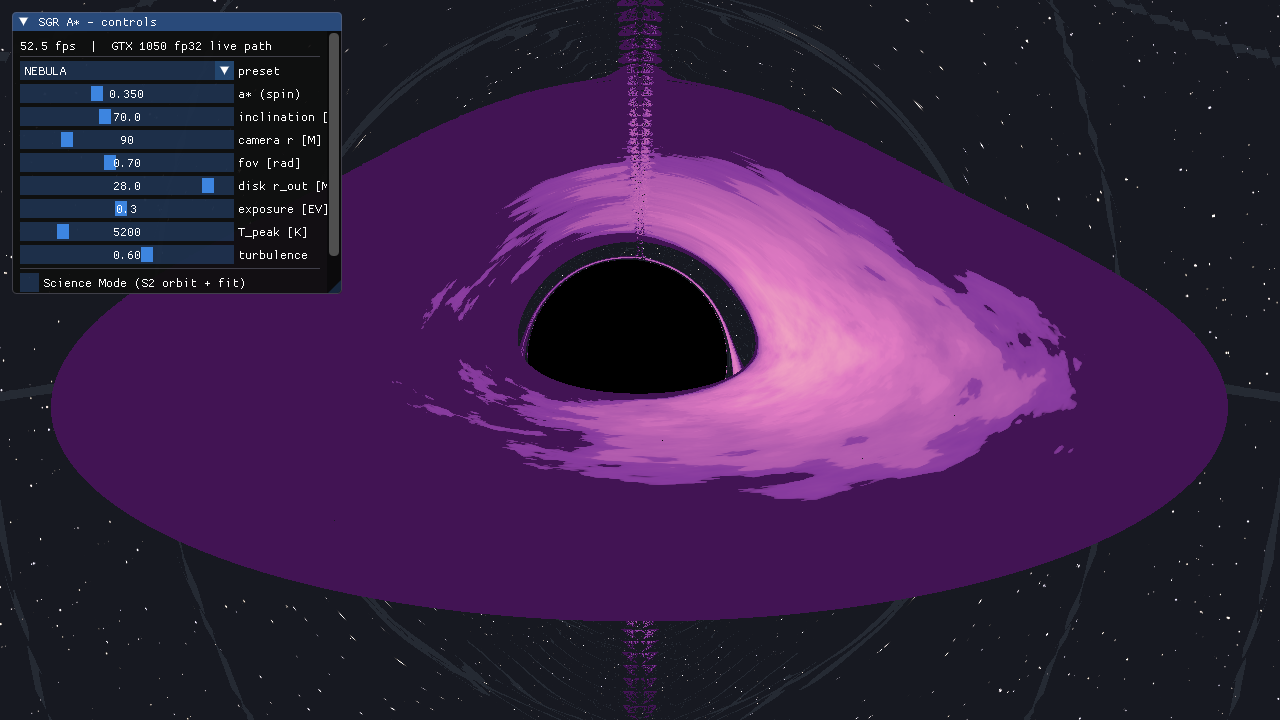
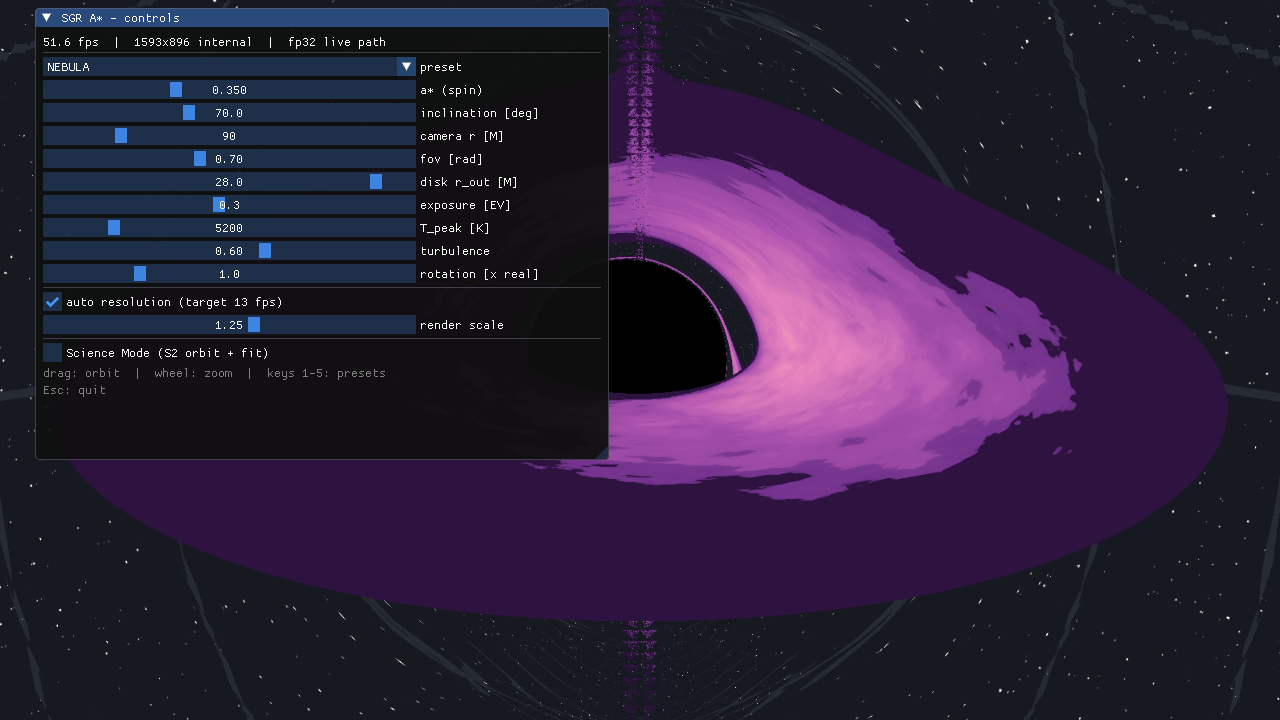
feat: full-disk colour grading, physical rotation control, auto resolution
Fixes the three fullscreen complaints (flat brick-red outer disk, no
visible rotation, 8.8 fps):

- gen_luts.py: artistic ramps re-stopped so colour progresses over the
  whole u range - with the 24-stop log window the outer disk sits at
  u~0.1-0.4 where the old ramps were one flat colour, quantizing the
  entire outer disk and hiding the turbulence filaments
- rotation [x real] slider (default 1.0 = physical Sgr A* wall-clock,
  GM/c^3 = 21.17 s; ISCO orbit ~8.5 min): filament advection now scales
  from frozen through real time to 1000x cinematic; --rot CLI flag
- auto dynamic resolution targeting 13 fps (user-chosen): sqrt-law
  controller on the 2 s fps samples, 70% damping, bounded step,
  rebuild-stall sample rejection; manual render-scale slider 0.25x-2x
  (>1 = supersampled AA via the LINEAR downsample blit); internal
  resolution shown in the HUD readout
- Verified: 1080p converges to ~13 fps at scale ~1.27; rotation A/B at
  300x shows sheared trailing spirals while 1x is static; 32/32 tests
  green; zero validation errors in all runs

diff --git a/engine/src/app.cpp b/engine/src/app.cpp
@@ -31,6 +31,7 @@ App::App(const AppOptions& opts) : opts_(opts) {
         *ctx_, bindless_->layout(),
         std::string(SGR_SHADER_DIR) + "/" + opts.shader + ".comp.glsl",
         sizeof(PushConstants));
+    live_.render_scale = std::clamp(opts_.render_scale, 0.25f, 2.0f);
     create_render_target();
 
     // live parameters: preset defaults → per-shader defaults → CLI overrides
@@ -52,6 +53,7 @@ App::App(const AppOptions& opts) : opts_(opts) {
     if (opts_.disk_r_out > 0.0f) live_.disk_r_out = opts_.disk_r_out;
     if (opts_.exposure_ev > -900.0f) live_.exposure_ev = opts_.exposure_ev;
     if (opts_.t_peak_k > 0.0f) live_.t_peak_k = opts_.t_peak_k;
+    if (opts_.rot_speed >= 0.0f) live_.rot_speed = opts_.rot_speed;
 
     live_.science_mode = opts_.science;
 
@@ -256,7 +258,9 @@ void App::create_render_target() {
         target_w_ = static_cast<uint32_t>(opts_.width);
         target_h_ = static_cast<uint32_t>(opts_.height);
     } else {
-        const float s = std::clamp(opts_.render_scale, 0.2f, 1.0f);
+        // live_.render_scale is runtime-tunable (auto-res / HUD slider);
+        // > 1 renders oversized and the LINEAR blit downsamples (cheap SSAA).
+        const float s = std::clamp(live_.render_scale, 0.25f, 2.0f);
         target_w_ = std::max(16u, static_cast<uint32_t>(
                                       ctx_->swapchain_extent().width * s));
         target_h_ = std::max(16u, static_cast<uint32_t>(
@@ -516,6 +520,9 @@ PushConstants App::make_push_constants(float t) const {
     pc.t_peak_k = live_.t_peak_k;
     pc.turb = live_.turb;
     pc.cam_phi = live_.cam_phi;
+    // 1.0 on the slider = real Sgr A* wall-clock: one geometric time unit
+    // (GM/c³) is 21.17 s for M = 4.297e6 Msun.
+    pc.time_scale = live_.rot_speed / 21.17f;
 
     // Page-Thorne normalisation, cached against the parameters it depends on.
     static thread_local double cached_a = -10.0, cached_rout = -1.0,
@@ -670,6 +677,14 @@ int App::run() {
         }
         if (hud_) hud_->new_frame(fps_now);
 
+        if (target_rebuild_) {
+            target_rebuild_ = false;
+            live_.render_scale = std::clamp(live_.render_scale, 0.25f, 2.0f);
+            ctx_->wait_idle();
+            destroy_render_target();
+            create_render_target();
+        }
+
         auto& f = ctx_->frame(frame_slot);
         vkWaitForFences(ctx_->device(), 1, &f.in_flight, VK_TRUE, UINT64_MAX);
 
@@ -735,9 +750,40 @@ int App::run() {
         if (std::chrono::duration<double>(now - fps_t0).count() > 2.0) {
             fps_now = fps_frames /
                       std::chrono::duration<double>(now - fps_t0).count();
-            std::printf("[app] %.1f fps\n", fps_now);
+            std::printf("[app] %.1f fps (scale %.2f)\n", fps_now,
+                        live_.render_scale);
             fps_t0 = now;
             fps_frames = 0;
+
+            // Auto resolution: hold ~13 fps (user-chosen) by scaling the
+            // internal render target. Cost per frame ~ pixels ~ scale², so
+            // sqrt(fps/target) is the equalising step; blend 70% toward it
+            // and ignore <5% moves to avoid oscillation. Menu mode is a
+            // cheap blit — never scale on its numbers.
+            if (live_.auto_res && mode_ == UiMode::Simulation &&
+                fps_now > 0.0) {
+                if (autores_skip_) {
+                    // this sample includes the rebuild stall — not a real
+                    // performance measurement
+                    autores_skip_ = false;
+                } else {
+                    const float target = 13.0f;
+                    float want =
+                        live_.render_scale *
+                        std::clamp(std::sqrt(static_cast<float>(fps_now) /
+                                             target),
+                                   0.74f, 1.35f); // bounded step per sample
+                    want = std::clamp(want, 0.25f, 2.0f);
+                    const float next = live_.render_scale +
+                                       0.7f * (want - live_.render_scale);
+                    if (std::fabs(next - live_.render_scale) >
+                        0.05f * live_.render_scale) {
+                        live_.render_scale = next;
+                        request_target_rebuild();
+                        autores_skip_ = true;
+                    }
+                }
+            }
         }
     }
 

diff --git a/engine/src/app.hpp b/engine/src/app.hpp
@@ -28,6 +28,7 @@ struct AppOptions {
     std::string panel;                // open this menu panel at boot
                                       // (about|nohair|scope|gallery|settings)
     bool no_mouse = false;            // ignore mouse orbit/zoom (automation)
+    float rot_speed = -1.0f;          // disk rotation ×real (-1: default 1.0)
     // Physics parameters forwarded to the shader (Phase 7+). Negative /
     // sentinel values mean "not set on the CLI": the preset (live mode) or
     // the per-shader defaults fill them in.
@@ -60,6 +61,7 @@ struct PushConstants {
     float t_peak_k;   // peak disk temperature [K]
     float turb;       // artistic turbulence amount 0..1 (0 = pure analytic)
     float cam_phi;    // camera azimuth [rad] (axisymmetric: rotates the disk)
+    float time_scale; // filament advection: Ω [1/M] per wall-clock second
 };
 static_assert(sizeof(PushConstants) <= 128);
 
@@ -80,6 +82,12 @@ public:
     void enter_simulation(bool science, bool scope = false);
     void return_to_menu() { mode_ = UiMode::Menu; }
     void request_quit();
+
+    // Recreate the internal render target next frame (render_scale changed
+    // via the HUD slider or the auto-resolution controller).
+    void request_target_rebuild() { target_rebuild_ = true; }
+    uint32_t target_width() const { return target_w_; }
+    uint32_t target_height() const { return target_h_; }
 
     // Generic sampled/blit texture loaded from a PNG (LUTs, hero plate,
     // gallery thumbnails).
@@ -128,6 +136,8 @@ private:
     bool esc_prev_ = false;
     bool dragging_ = false;
     double drag_x_ = 0.0, drag_y_ = 0.0;
+    bool target_rebuild_ = false;
+    bool autores_skip_ = false; // discard the fps sample after a rebuild
 
 public:
     // Live-tunable state (edited by the HUD; consumed by make_push_constants).
@@ -135,6 +145,12 @@ public:
         float a_star, incl_deg, fov, r_cam, disk_r_out, exposure_ev, t_peak_k;
         float turb = 0.0f;    // artistic turbulence layer (post-validation)
         float cam_phi = 0.0f; // orbit azimuth [rad], mouse-driven
+        // Disk rotation in multiples of REAL Sgr A* wall-clock time
+        // (1.0 = physical: GM/c³ = 21.17 s per geometric time unit, one
+        // ISCO orbit ≈ 8.5 min — crank it up to actually see the swirl).
+        float rot_speed = 1.0f;
+        float render_scale = 1.0f; // internal render resolution multiplier
+        bool auto_res = true;      // hold ~13 fps by adjusting render_scale
         uint32_t lut_slot = 0;
         int preset = 0;
         bool science_mode = false;

diff --git a/scripts/gen_luts.py b/scripts/gen_luts.py
@@ -80,24 +80,33 @@ def main() -> None:
     save_lut("disk_colormap", bb / bb.max())
 
     # §9 presets (display ramps in linear RGB; u = normalised intensity).
+    # Densely stopped so colour keeps moving over the WHOLE ramp: with the
+    # live renderer's 24-stop log window the outer disk sits at u ≈ 0.1–0.4,
+    # and a ramp that is flat there quantizes the whole outer disk to one
+    # colour (and hides the turbulence filaments).
     save_lut("firestorm", ramp([
-        (0.0, (0.02, 0.00, 0.00)), (0.25, (0.35, 0.02, 0.01)),
-        (0.55, (0.85, 0.20, 0.02)), (0.8, (1.0, 0.55, 0.08)),
-        (1.0, (1.0, 0.93, 0.72)),
+        (0.00, (0.010, 0.001, 0.001)), (0.10, (0.060, 0.005, 0.003)),
+        (0.30, (0.28, 0.03, 0.01)), (0.50, (0.62, 0.10, 0.02)),
+        (0.68, (0.92, 0.30, 0.03)), (0.85, (1.0, 0.60, 0.10)),
+        (1.00, (1.0, 0.93, 0.72)),
     ]))
     save_lut("gargantua", ramp([
-        (0.0, (0.01, 0.02, 0.05)), (0.3, (0.25, 0.35, 0.55)),
-        (0.6, (0.85, 0.75, 0.55)), (0.85, (1.0, 0.92, 0.70)),
-        (1.0, (1.0, 1.0, 1.0)),
+        (0.00, (0.008, 0.012, 0.030)), (0.12, (0.04, 0.07, 0.14)),
+        (0.30, (0.14, 0.22, 0.38)), (0.50, (0.38, 0.45, 0.60)),
+        (0.68, (0.75, 0.70, 0.60)), (0.85, (0.98, 0.90, 0.70)),
+        (1.00, (1.0, 1.0, 1.0)),
     ]))
     save_lut("arctic", ramp([
-        (0.0, (0.00, 0.02, 0.04)), (0.35, (0.10, 0.35, 0.50)),
-        (0.7, (0.55, 0.85, 0.95)), (1.0, (0.95, 1.0, 1.0)),
+        (0.00, (0.002, 0.010, 0.020)), (0.12, (0.02, 0.07, 0.12)),
+        (0.30, (0.06, 0.22, 0.33)), (0.50, (0.16, 0.45, 0.60)),
+        (0.70, (0.45, 0.78, 0.90)), (0.88, (0.80, 0.97, 1.00)),
+        (1.00, (0.97, 1.0, 1.0)),
     ]))
     save_lut("nebula", ramp([
-        (0.0, (0.03, 0.00, 0.06)), (0.3, (0.25, 0.04, 0.35)),
-        (0.6, (0.75, 0.20, 0.55)), (0.85, (1.0, 0.55, 0.55)),
-        (1.0, (1.0, 0.85, 0.65)),
+        (0.00, (0.012, 0.001, 0.025)), (0.12, (0.06, 0.01, 0.11)),
+        (0.30, (0.18, 0.03, 0.28)), (0.50, (0.45, 0.09, 0.45)),
+        (0.68, (0.78, 0.22, 0.52)), (0.85, (1.0, 0.52, 0.52)),
+        (1.00, (1.0, 0.86, 0.66)),
     ]))
 
 

diff --git a/engine/src/ui/SimHUD.cpp b/engine/src/ui/SimHUD.cpp
@@ -238,7 +238,8 @@ void SimHUD::draw_controls(double fps) {
     ImGui::SetNextWindowPos({12, 12}, ImGuiCond_FirstUseEver);
     ImGui::SetNextWindowSize({330, 0}, ImGuiCond_FirstUseEver);
     ImGui::Begin("SGR A* - controls");
-    ImGui::Text("%.1f fps  |  GTX 1050 fp32 live path", fps);
+    ImGui::Text("%.1f fps  |  %ux%u internal  |  fp32 live path", fps,
+                app_->target_width(), app_->target_height());
     ImGui::Separator();
 
     int preset = lp.preset;
@@ -259,6 +260,25 @@ void SimHUD::draw_controls(double fps) {
         ImGui::SetTooltip("Artistic filament layer sheared by the real\n"
                           "Keplerian rotation. 0 = pure Page-Thorne\n"
                           "(the physics is identical either way).");
+    ImGui::SliderFloat("rotation [x real]", &lp.rot_speed, 0.0f, 1000.0f,
+                       "%.1f", ImGuiSliderFlags_Logarithmic);
+    if (ImGui::IsItemHovered())
+        ImGui::SetTooltip("Filament advection speed in multiples of real\n"
+                          "Sgr A* time. At 1.0 the innermost orbit takes\n"
+                          "~8.5 minutes of wall clock - a real black hole\n"
+                          "this heavy looks almost frozen. Crank it up to\n"
+                          "watch the shear.");
+    ImGui::Separator();
+    if (ImGui::Checkbox("auto resolution (target 13 fps)", &lp.auto_res) &&
+        !lp.auto_res)
+        app_->request_target_rebuild();
+    if (ImGui::SliderFloat("render scale", &lp.render_scale, 0.25f, 2.0f,
+                           "%.2f"))
+        app_->request_target_rebuild();
+    if (ImGui::IsItemHovered())
+        ImGui::SetTooltip("Internal render resolution vs window size.\n"
+                          "Above 1.0 = supersampled anti-aliasing.\n"
+                          "Auto mode adjusts this to hold ~13 fps.");
     ImGui::Separator();
     ImGui::Checkbox("Science Mode (S2 orbit + fit)", &lp.science_mode);
     ImGui::TextDisabled("drag: orbit  |  wheel: zoom  |  keys 1-5: presets");

diff --git a/engine/src/main.cpp b/engine/src/main.cpp
@@ -43,6 +43,7 @@ int main(int argc, char** argv) {
         else if (!std::strcmp(argv[i], "--demo")) opts.demo_frames = std::atoi(next("--demo"));
         else if (!std::strcmp(argv[i], "--panel")) opts.panel = next("--panel");
         else if (!std::strcmp(argv[i], "--no-mouse")) opts.no_mouse = true;
+        else if (!std::strcmp(argv[i], "--rot")) opts.rot_speed = static_cast<float>(std::atof(next("--rot")));
         else if (!std::strcmp(argv[i], "--science")) opts.science = true;
         else if (!std::strcmp(argv[i], "--preset")) opts.preset = std::atoi(next("--preset"));
         else if (!std::strcmp(argv[i], "--scale")) opts.render_scale = static_cast<float>(std::atof(next("--scale")));

diff --git a/README.md b/README.md
@@ -110,6 +110,14 @@ Navigate the menu with **↑/↓ + Enter** or the mouse. In the simulation:
   Keplerian differential rotation — display-only, mean-1 on the
   Page–Thorne flux, so the g⁴ Doppler physics is untouched (set it to 0,
   or use the PHYSICAL preset, for the exact analytic disk)
+- the **rotation [× real]** slider animates the filaments at multiples of
+  real Sgr A* wall-clock time. At 1.0 (the default) the innermost orbit
+  takes ~8.5 minutes — a 4-million-solar-mass black hole genuinely looks
+  almost frozen. Push it to a few hundred to watch the differential shear
+  wind the filaments into trailing spirals
+- **auto resolution** (on by default) adjusts the internal render scale to
+  hold ~13 fps at any window size; the **render scale** slider overrides it
+  manually (0.25×–2×; above 1× = supersampled anti-aliasing)
 
 | Menu item | What it does |
 |---|---|
@@ -155,6 +163,7 @@ Navigate the menu with **↑/↓ + Enter** or the mouse. In the simulation:
 --width W --height H  window size          --scale S   render-resolution knob
 --frames N            exit after N frames  --screenshot out.png
 --no-mouse            disable orbit/zoom input (repeatable screenshots)
+--rot X               disk rotation speed in multiples of real time
 --validation          Vulkan validation layers ON (exit code = error count)
 ```
 
